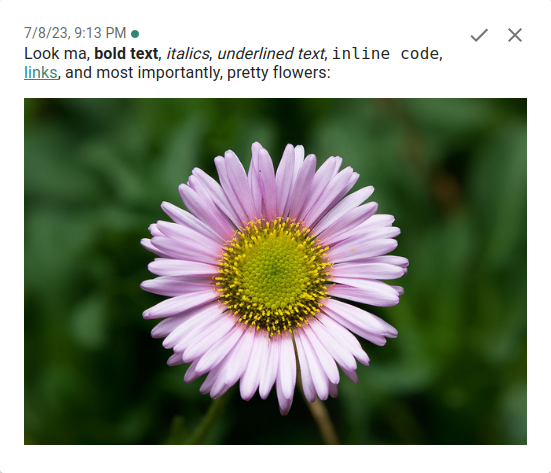
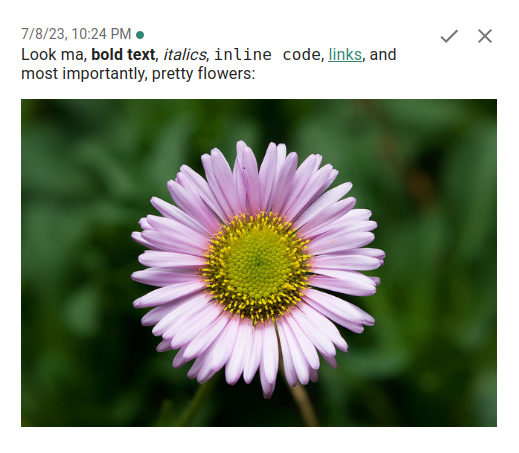
Remove underlines

diff --git a/docs/publish.md b/docs/publish.md
@@ -627,9 +627,9 @@ them with a comma, e.g. `tag1,tag2,tag3`.
 _Supported on:_ :material-firefox:
 
 You can format messages using [Markdown](https://www.markdownguide.org/basic-syntax/) 🤩. That means you can use 
-**bold**, *italicized*, or _underlined text_, links, images, and more. Supported Markdown features (web app only for now):
+**bold text**, *italicized text*, links, images, and more. Supported Markdown features (web app only for now):
 
-- [Emphasis](https://www.markdownguide.org/basic-syntax/#emphasis) such as **bold** (`**bold**`), *italic* (`*italic*`), _underline_ (`_underline_`)
+- [Emphasis](https://www.markdownguide.org/basic-syntax/#emphasis) such as **bold** (`**bold**`), *italics* (`*italics*`)
 - [Links](https://www.markdownguide.org/basic-syntax/#links) (`[some tool](https://ntfy.sh)`)
 - [Images](https://www.markdownguide.org/basic-syntax/#images) (`![some image](https://bing.com/logo.png)`)
 - [Code blocks](https://www.markdownguide.org/basic-syntax/#code-blocks) (` ```code blocks``` `) and [inline code](https://www.markdownguide.org/basic-syntax/#inline-code) (`` `inline code` ``)
@@ -645,7 +645,7 @@ As of today, **Markdown is only supported in the web app.** Here's an example of
 === "Command line (curl)"
     ```
     curl \
-        -d "Look ma, **bold text**, *italics*, _underlined text_, ..." \
+        -d "Look ma, **bold text**, *italics*, ..." \
         -H "Markdown: yes" \
         ntfy.sh/mytopic
     ```
@@ -655,7 +655,7 @@ As of today, **Markdown is only supported in the web app.** Here's an example of
     ntfy publish \
         mytopic \
         --markdown \
-        "Look ma, **bold text**, *italics*, _underlined text_, ..."
+        "Look ma, **bold text**, *italics*, ..."
     ```
 
 === "HTTP"
@@ -664,14 +664,14 @@ As of today, **Markdown is only supported in the web app.** Here's an example of
     Host: ntfy.sh
     Markdown: yes
 
-    Look ma, **bold text**, *italics*, _underlined text_, ...
+    Look ma, **bold text**, *italics*, ...
     ```
 
 === "JavaScript"
     ``` javascript
     fetch('https://ntfy.sh/mytopic', {
       method: 'POST', // PUT works too
-      body: 'Look ma, **bold text**, *italics*, _underlined text_, ...',
+      body: 'Look ma, **bold text**, *italics*, ...',
       headers: { 'Markdown': 'yes' }
     })
     ```
@@ -679,11 +679,11 @@ As of today, **Markdown is only supported in the web app.** Here's an example of
 === "Go"
     ``` go
     http.Post("https://ntfy.sh/mytopic", "text/markdown",
-        strings.NewReader("Look ma, **bold text**, *italics*, _underlined text_, ..."))
+        strings.NewReader("Look ma, **bold text**, *italics*, ..."))
 
     // or
     req, _ := http.NewRequest("POST", "https://ntfy.sh/mytopic", 
-        strings.NewReader("Look ma, **bold text**, *italics*, _underlined text_, ..."))
+        strings.NewReader("Look ma, **bold text**, *italics*, ..."))
     req.Header.Set("Markdown", "yes")
     http.DefaultClient.Do(req)
     ```
@@ -693,7 +693,7 @@ As of today, **Markdown is only supported in the web app.** Here's an example of
     $Request = @{
       Method = "POST"
       URI = "https://ntfy.sh/mytopic"
-      Body = "Look ma, **bold text**, *italics*, _underlined text_, ..."
+      Body = "Look ma, **bold text**, *italics*, ..."
       Headers = @{
         Markdown = "yes"
       }
@@ -704,7 +704,7 @@ As of today, **Markdown is only supported in the web app.** Here's an example of
 === "Python"
     ``` python
     requests.post("https://ntfy.sh/mytopic", 
-        data="Look ma, **bold text**, *italics*, _underlined text_, ..."
+        data="Look ma, **bold text**, *italics*, ..."
         headers={ "Markdown": "yes" }))
     ```
 
@@ -714,7 +714,7 @@ As of today, **Markdown is only supported in the web app.** Here's an example of
         'http' => [
             'method' => 'POST', // PUT also works
             'header' => 'Content-Type: text/markdown', // !
-            'content' => 'Look ma, **bold text**, *italics*, _underlined text_, ...'
+            'content' => 'Look ma, **bold text**, *italics*, ...'
         ]
     ]));
     ```
